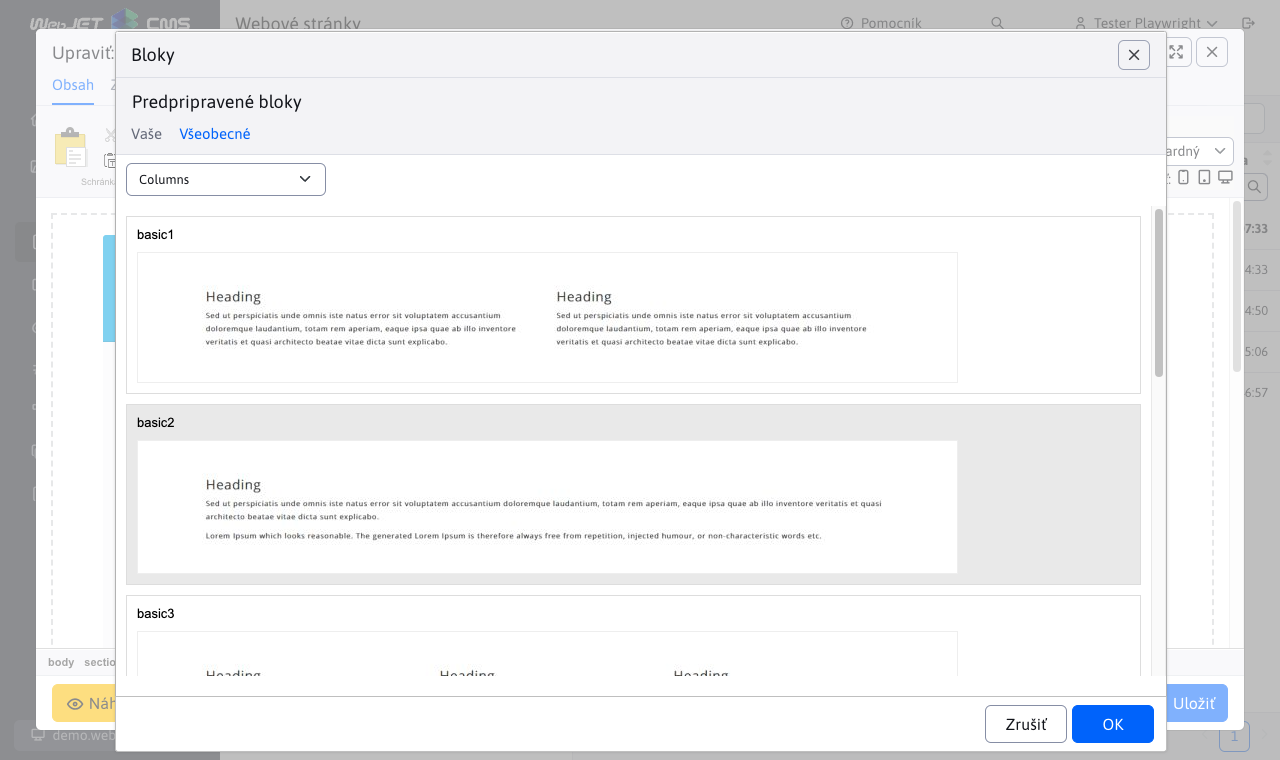
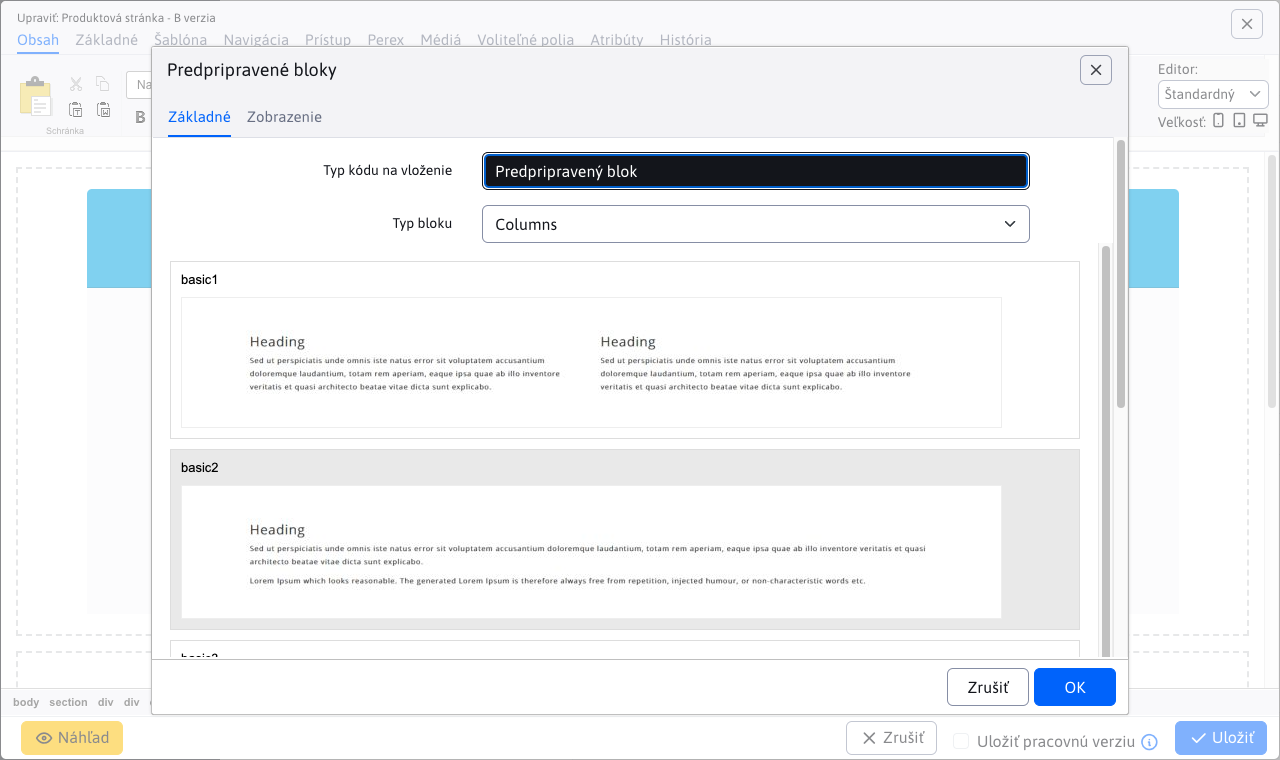
[57409] new images

diff --git a/src/test/webapp/screenshots/generator/apps-editor-component.js b/src/test/webapp/screenshots/generator/apps-editor-component.js
@@ -214,8 +214,10 @@ Scenario('apps screenshot for editor-components.jsp 4', ({ I, DT, DTE, Document 
     I.switchTo("#editorComponent");
     I.wait(4);
     Document.screenshot(basePath+"/components/htmlbox/screenshot-1"+lngSuffix+".jpg");
-    I.click("#tabLink2");
+    I.dtEditorSelectOption("codeType", "Hlavná šablona: Šablóny");
     Document.screenshot(basePath+"/components/htmlbox/screenshot-2"+lngSuffix+".jpg");
+    I.dtEditorSelectOption("codeType", "Web stránka");
+    Document.screenshot(basePath+"/components/htmlbox/screenshot-3"+lngSuffix+".jpg");
 
     screenshotWebAndApp(I, Document, 77776, "/components/related-pages", ".ly-content .container", tabLinkNone, null, 800, 600);
     screenshotWebAndApp(I, Document, 70839, "/components/rating", ".ly-content .container", tabLinkNone, null, 800, 600);
